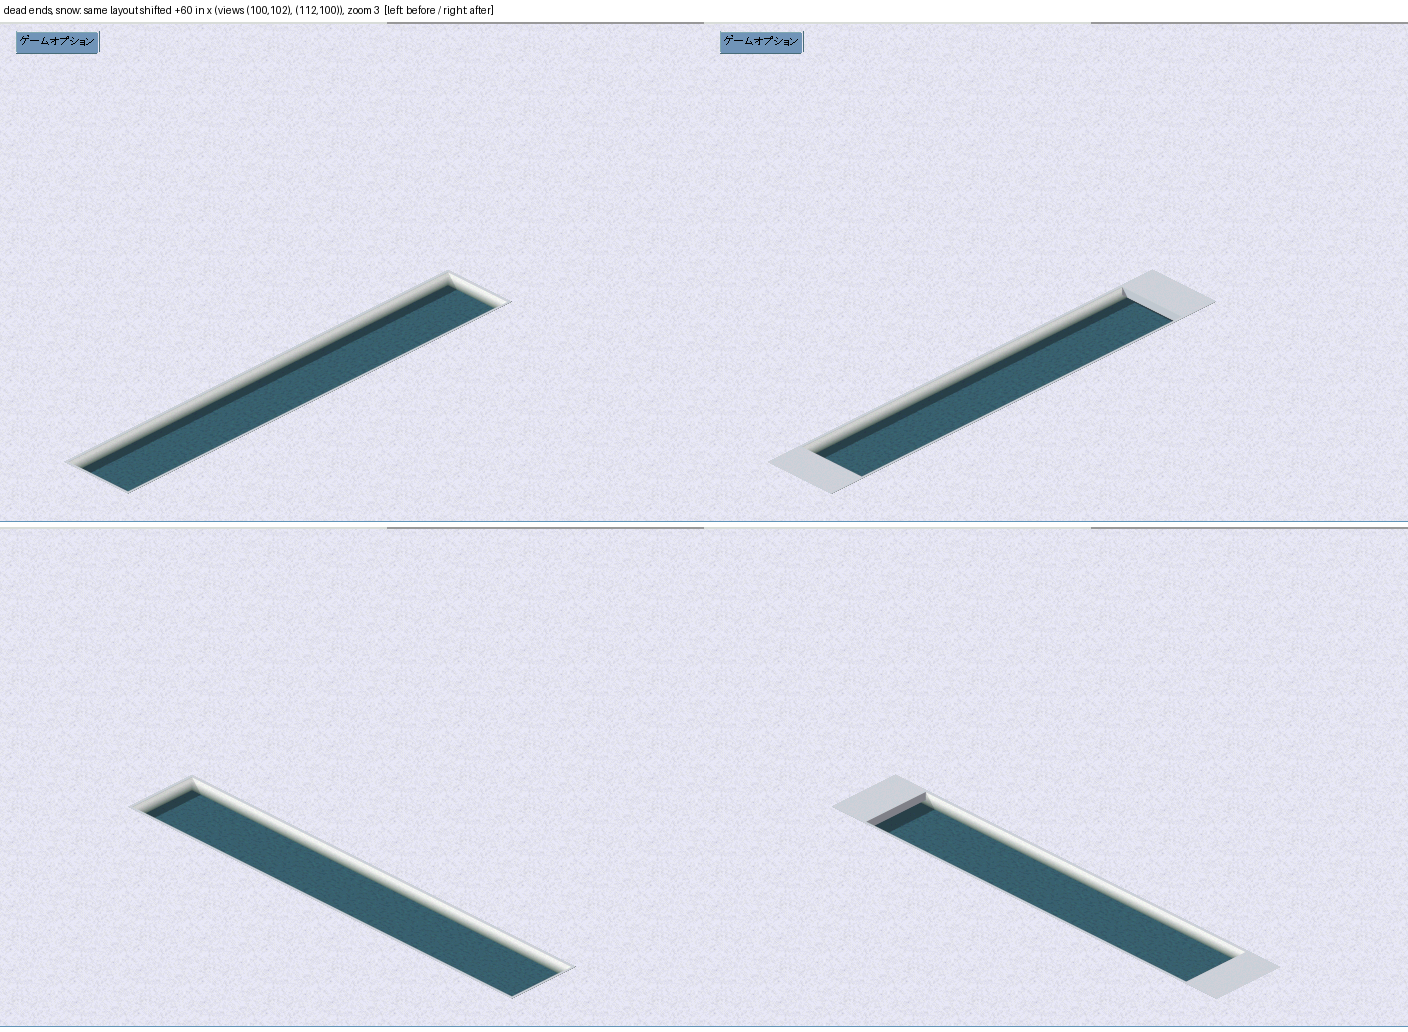
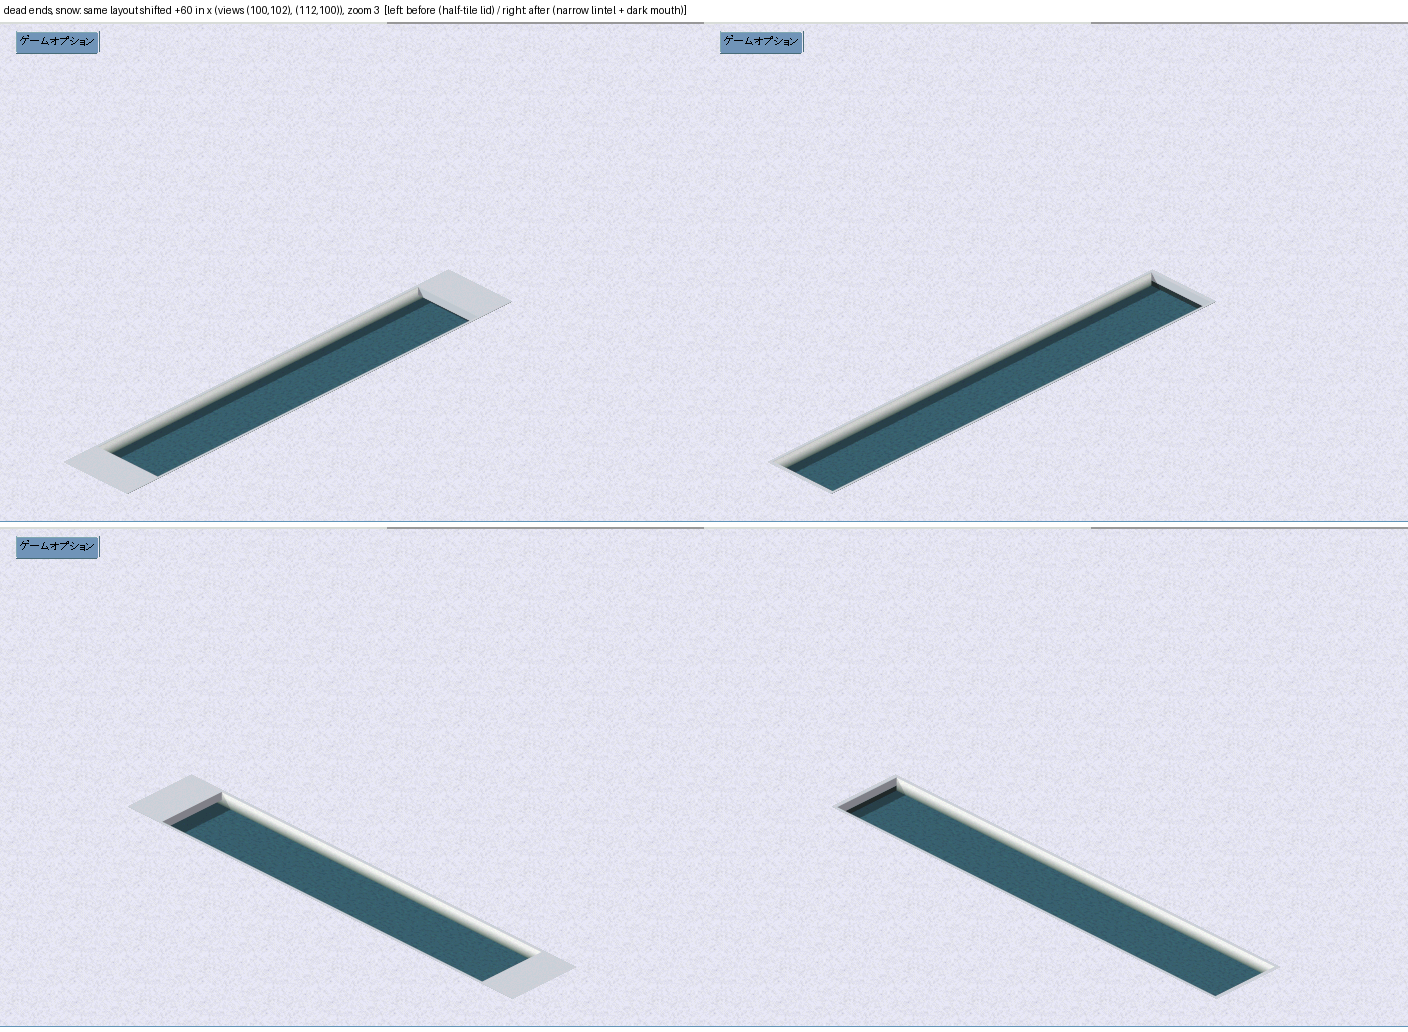
ami: narrow the scenic canal culvert to a lintel with a dark mouth (#217)

diff --git a/tools/blender/sheetlib/canal.py b/tools/blender/sheetlib/canal.py
@@ -39,8 +39,8 @@ _M_WATER = lambda: noisy_material("canal_water", WATER_LO, WATER_HI, scale=30, r
 _M_WALL = lambda: noisy_material("canal_wall", WALL_LO, WALL_HI, scale=55, rough=0.9)
 _M_COPING = lambda: noisy_material("canal_coping", COPING_LO, COPING_HI, scale=55, rough=0.85)
 
-CULVERT_MOUTH = 0.0      # 暗渠の口の位置（タイルの中心から、閉じた側へ測った距離。0 でタイルの半分が蓋）
-CULVERT_THICK = 1.0      # 暗渠の蓋の厚み（地面から下へ。約 8px）
+CULVERT_LINTEL = 0.45    # 暗渠の蓋（まぐさ）の幅（閉じた側のタイルの辺から。周りの護岸と笠石と同じくらい）
+CULVERT_THICK = 1.0      # まぐさの厚み（地面から下へ。約 8px）。この下に暗い口が見える
 # 景観の運河（#161）: iss の運河と同じ見せ方。水面は 13px 下（高さ 1 段 = 16px）で、タイルの辺近くまで広げ、縁は細い笠石。
 # 坂は閘門（iss と同じく、上下の水面を扉枠で分ける。LOCK）。実用の運河（ROAD_STYLE。#114）の寸法は変えない
 ROAD_STYLE = dict(pad=CANAL_PAD, bank=CANAL_BANK, coping=CANAL_COPING, water_z=CANAL_WATER_Z, wall_bottom=CANAL_WALL_BOTTOM, lock=False)
@@ -49,9 +49,9 @@ SCENIC_STYLE = dict(bank=0.35, coping=0.3, water_z=-13 / 16 * H, wall_bottom=-13
                     # 護岸の水際の染み（#197。精細化のラウンド 1 の 1wl2）: 水面から height だけ上へ薄れる暗い帯（色, 高さ, 強さ）。物の座標の高さで付けるので、
                     # タイルをまたいで連続する
                     waterline=((0.06, 0.12, 0.10), 1.2, 1.0),
-                    # 行き止まりの暗渠（#217。iss の運河と同じ）: 閉じた側の半分に笠石の材質の蓋をかぶせ、水がその下へ消えて見えるようにする。
+                    # 行き止まりの暗渠（#217。iss の運河に倣う）: 閉じた側の辺に、周りの笠石と同じ幅の蓋（まぐさ）を付け、その下に暗い口を描いて、水が奥へ続いて見えるようにする（だまし絵）。
                     # 蓋は地面の高さから厚み分だけ下まで（口は暗く見える）
-                    culvert=(CULVERT_MOUTH, CULVERT_THICK))
+                    culvert=(CULVERT_LINTEL, CULVERT_THICK))
 CANAL_STYLES = {"road": ROAD_STYLE, "scenic": SCENIC_STYLE}
 SCENIC_DEPTH_PX = 13      # 景観の運河の水面の深さ（画素。つなぎ目の持ち分を下へ広げる量）
 LOCK_GATE = 0.25         # 閘門の扉の半分の厚み（坂の向きの座標 u = ±LOCK_GATE の間）
@@ -212,7 +212,7 @@ def canal_build(name, slope, snow, st=ROAD_STYLE, slope_name=None):
     obs.append(_shell("canal_wall", name, bank - cop, wb, 0.0, wall, bank, None, pad))
     obs.append(_shell("canal_coping", name, bank - cop, 0.0, CANAL_COPING_T, coping, bank, None, pad))
     if "culvert" in st and name in _ARMS and not slope:
-        obs.append(_culvert(name, st, coping))
+        obs += _culvert(name, st, coping)
     if not LAYOUT:
         obs.append(_earth(name, bank, wb, reach, water, pad, st.get("earth_eps", CANAL_EARTH_EPS)))
     if slope:
@@ -222,18 +222,23 @@ def canal_build(name, slope, snow, st=ROAD_STYLE, slope_name=None):
 
 
 def _culvert(name, st, coping):
-    """行き止まりのセル（name は つながる辺の 1 文字）の暗渠の蓋。閉じた側（つながる辺の反対）の、口から先を笠石の材質で覆う"""
-    mouth, thick = st["culvert"]
+    """行き止まりのセル（name は つながる辺の 1 文字）の暗渠。閉じた側の辺に、笠石の材質のまぐさ（幅 lintel、厚み thick）を付け、
+    その下（水面から まぐさの下端まで）に暗い口の板を置く。口の前の面はまぐさと同じ位置で、水路の護岸の奥の面より少し手前に出す"""
+    lintel, thick = st["culvert"]
     ax, ay = _ARMS[name]
-    reach = TILE / 2 + st["pad"]
-    w = TILE / 2 - (st["bank"] - st["coping"])  # 笠石の外の縁まで
-    if ax:
-        a, b = sorted((ax * -reach, ax * -mouth))
-        poly = [(a, -w), (b, -w), (b, w), (a, w)]
-    else:
-        a, b = sorted((ay * -reach, ay * -mouth))
-        poly = [(-w, a), (w, a), (w, b), (-w, b)]
-    return _prism("canal_culvert", poly, -thick, CANAL_COPING_T, coping)
+    half = TILE / 2
+    reach = half + st["pad"]
+    edge = half - lintel  # 閉じた側の辺（u = −half）から lintel だけ内側の位置（u = −edge）
+    wwidth = half - st["bank"]  # 水面の半幅
+    dark = make_material(lambda: noisy_material("canal_culvert_dark", (0.01, 0.03, 0.04), (0.025, 0.06, 0.07), scale=30, rough=0.5), "canal_culvert_dark")
+
+    def box(w, z0, z1, mat, nm):
+        a, b = sorted((-ax * reach - ay * 0, -ax * edge)) if ax else sorted((-ay * reach, -ay * edge))
+        poly = [(a, -w), (b, -w), (b, w), (a, w)] if ax else [(-w, a), (w, a), (w, b), (-w, b)]
+        return _prism(nm, poly, z0, z1, mat)
+
+    return [box(half - (st["bank"] - st["coping"]), -thick, CANAL_COPING_T, coping, "canal_culvert_lintel"),
+            box(wwidth, st["wall_bottom"], -thick, dark, "canal_culvert_mouth")]
 
 
 def _waterline_wall(wall, water_z, stain, height, k):

diff --git a/addons/ami/README.md b/addons/ami/README.md
@@ -1051,7 +1051,7 @@ PORT=47300 bash ingame/game.sh STOP
 - **雪の縁のぼかし**: 雪の板（6 車線の分離帯。`lane6_m`）の縁に、路面から雪へ寄せた 6 段のまだら（幅 0.13〜0.14 ずつ。`MARKING_SLUSH_T`。最初は 4 段で、精細化のラウンド 2 の 2slush6 で 6 段にした）を重ねた。交差点の腕の 2 マス目（4×4・6×6。`junction4_*`・`junction6_*`）では、雪の帯・板が導流帯の三角の中へ細くなって続き、斜めの縁も同じ 6 段のぼかしにした（ユーザーの指摘、2026-11-23）。三角の縞の線は白いので、雪の上では見えにくい。ほかの路面表示の雪は、下の道路の路肩の雪のまだら（`SNOW_LAYERS`）がすでに 4 段でぼけている。
 - **運河の水面**: さざ波と岸の影を試したが、交差点と直線で波が連続しないとユーザーに指摘され、取り下げて元の絵に戻した（2026-11-23。運河・景観の運河・運河の踏切のシート）。
 - **景観の運河の壁の水際の染み**（精細化のラウンド 1 の 1wl2。`tools/blender/sheetlib/canal.py` の `SCENIC_STYLE` の `waterline` と `_waterline_wall`）: 水面から壁の上へ 1.2 だけ薄れる暗い緑の帯を、物の座標の高さで壁の材質に重ねた。タイルをまたいで連続する。実用の運河には付けていない。前後の画像は [docs/197_final/](docs/197_final/)。
-- **景観の運河の斜めと行き止まり**（#217）: 斜めのセルの内壁に出ていた、タイルの境ごとの細い横線は、画面で縦向きの 3 セル（`diag_sw`・`diag_ne`・`close2`）の壁を長く取って影の縦の範囲をそろえると消えた。ただし斜めの壁は画面の縦の線になって面が見えず、直線の壁（面が見える）とのつなぎ目で壁と笠石が連続しない（ユーザーの指摘）。iss の運河も斜めを持たず L 字のジグザグにしているので、景観の運河も斜めの絵（`diagonal[...]`）をやめ、カーブを L 字のセル（行 2 の列 5〜8。`sheetlib/canal.py` の `_CURVE_CELLS`）にした。斜めに敷くと 1 タイルずつの階段になる。近い斜めの絵も持たない。普通の運河（`ami_canal`）は斜めのまま。前後の画像は `docs/217_canal_diag/`（`diag_*`・`scenic_*`・`diag_horizontal`・`canal_normal_diag` は、取り下げた壁の延長の前後。`joint_*` は斜め→L 字、`ends_*` は行き止まりの暗渠の前後）。 行き止まりのセルは、iss の運河と同じく、閉じた側のタイルの半分に笠石の材質の蓋をかぶせ、水が暗渠へ入っていくように見せる（`canal.py` の `_culvert`、`SCENIC_STYLE` の `culvert`。蓋の厚み 1.0 で口が暗く見える）。普通の運河の行き止まりは変えていない。
+- **景観の運河の斜めと行き止まり**（#217）: 斜めのセルの内壁に出ていた、タイルの境ごとの細い横線は、画面で縦向きの 3 セル（`diag_sw`・`diag_ne`・`close2`）の壁を長く取って影の縦の範囲をそろえると消えた。ただし斜めの壁は画面の縦の線になって面が見えず、直線の壁（面が見える）とのつなぎ目で壁と笠石が連続しない（ユーザーの指摘）。iss の運河も斜めを持たず L 字のジグザグにしているので、景観の運河も斜めの絵（`diagonal[...]`）をやめ、カーブを L 字のセル（行 2 の列 5〜8。`sheetlib/canal.py` の `_CURVE_CELLS`）にした。斜めに敷くと 1 タイルずつの階段になる。近い斜めの絵も持たない。普通の運河（`ami_canal`）は斜めのまま。前後の画像は `docs/217_canal_diag/`（`diag_*`・`scenic_*`・`diag_horizontal`・`canal_normal_diag` は、取り下げた壁の延長の前後。`joint_*` は斜め→L 字、`ends_*` は行き止まりの暗渠の前後）。 行き止まりのセルは、閉じた側のタイルの辺に、周りの笠石と同じ幅（辺から 0.45）の蓋（まぐさ。厚み 1.0）を付け、その下に暗い口を描いて、水が暗渠へ入っていくように見せる（だまし絵。`canal.py` の `_culvert`、`SCENIC_STYLE` の `culvert`）。最初はタイルの半分を蓋にしたが、ユーザーの指摘（2026-11-24）で狭めた。普通の運河の行き止まりは変えていない。
 - 直していないもの: 景観の運河の坂の側面のまだら（#161 から回したもの。形の問題で、材質では直らない）、道路の分岐の絵（#46・#205）の降雪の境のぼかし。白線の塗料の欠け（ラウンド 1 の 1chip2。1px の路側線が点々に切れる）は入れなかった。
 
 ## 今の決まりごと

diff --git a/docs/reference/way-addon.md b/docs/reference/way-addon.md
@@ -47,7 +47,7 @@
   `diagonal[close1]`・`[close2]` は 2 本の斜めを 1 枚に描いた絵（`close1` は `nw` と `se` の 2 つの帯、`close2` は `ne` と `sw` の 2 つの帯）。
   **壁を持つ部品は、画面で縦向きの斜めで 2 つの問題が出る**（景観の運河、2026-11-24）: (1) 壁が画面の縦の線になって内側の面が見えず、直線の壁（面が見える）とのつなぎ目で壁・笠石の見え方が連続しない。(2) 隣のタイルの壁が落とす影が自分のセルの水面にも掛かるので、壁を自分のタイルの内側だけで切ると、影の縦の範囲が組のセルでずれ、64 行ごとに明るい楔（横線）が出る（壁を長く取ると楔は消えたが、(1) は残った）。
   iss の運河（`../refs/iss/src/way/water/canal.dat`）は `diagonal` を持たず、`image[sw]` などを L 字のカーブのセル（行 2 の列 5〜8）にして、斜めを L 字のジグザグにしている。AMI の景観の運河もこれに合わせた（`ami_dat.py` の `NO_DIAG`。壁・水面が直線と同じ作りなので連続する）
-  iss の運河の行き止まりのセル（`canal.dat` が指す `canal_kt` は、同じフォルダの `canal.png` を読んだ。行 0 の列 5〜8）は、閉じた側に平らな蓋（笠石と同じ明るい面）をかぶせ、水が蓋の下へ消える暗渠になっている（2026-11-24 に絵を読んだ）。AMI の景観の運河も同じ作り
+  iss の運河の行き止まりのセル（`canal.dat` が指す `canal_kt` は、同じフォルダの `canal.png` を読んだ。行 0 の列 5〜8）は、閉じた側に平らな蓋（笠石と同じ明るい面）をかぶせ、水が蓋の下へ消える暗渠になっている（2026-11-24 に絵を読んだ）。AMI の景観の運河は、タイルの半分を蓋にすると広すぎたため（ユーザーの指摘）、辺に笠石と同じ幅のまぐさを付けて、その下に暗い口を描く作りにした（だまし絵）
   （壁を長く取って影をそろえる直し（c17394e）は、(1) が残るので #217 で取り下げた）。
 - **予想図との差が 0 px** であっても、分かるのは「各タイルが持ち分どおりに描かれている」ことだけ。絵どうしが段差なくつながっているかは別に見る
 
